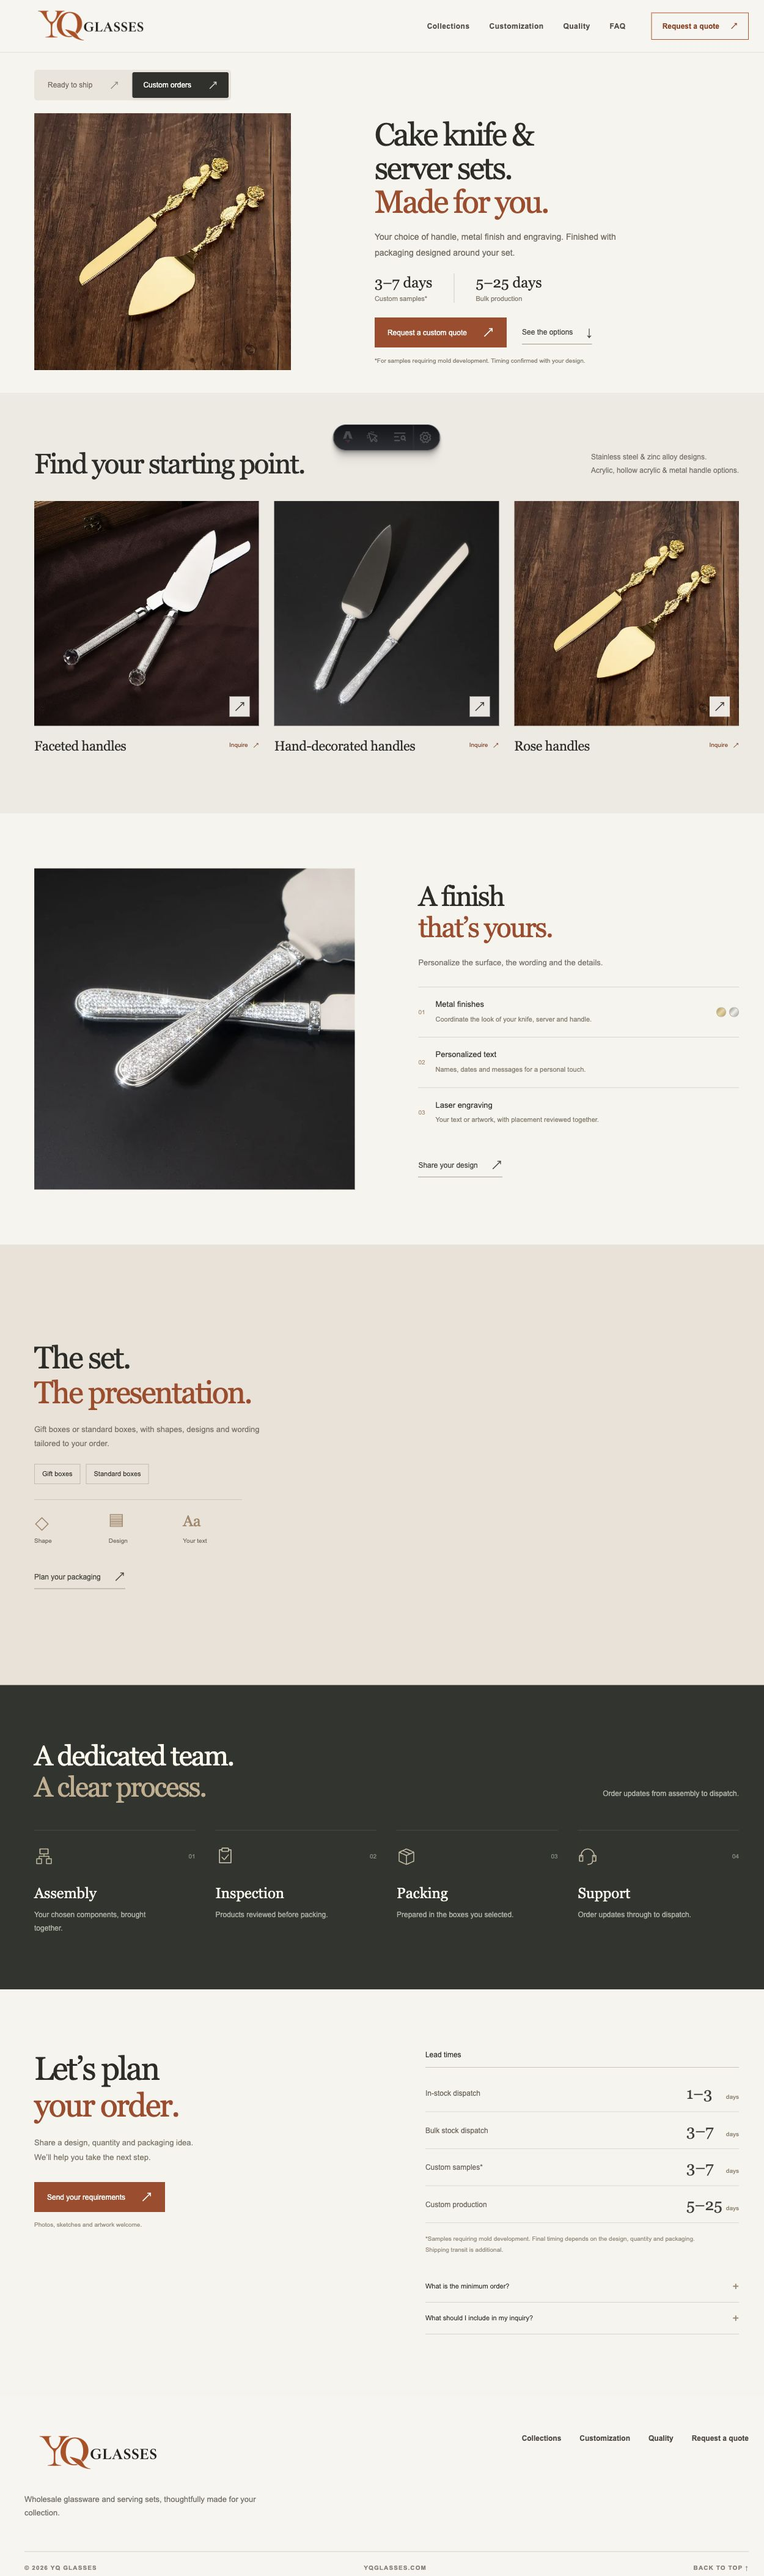
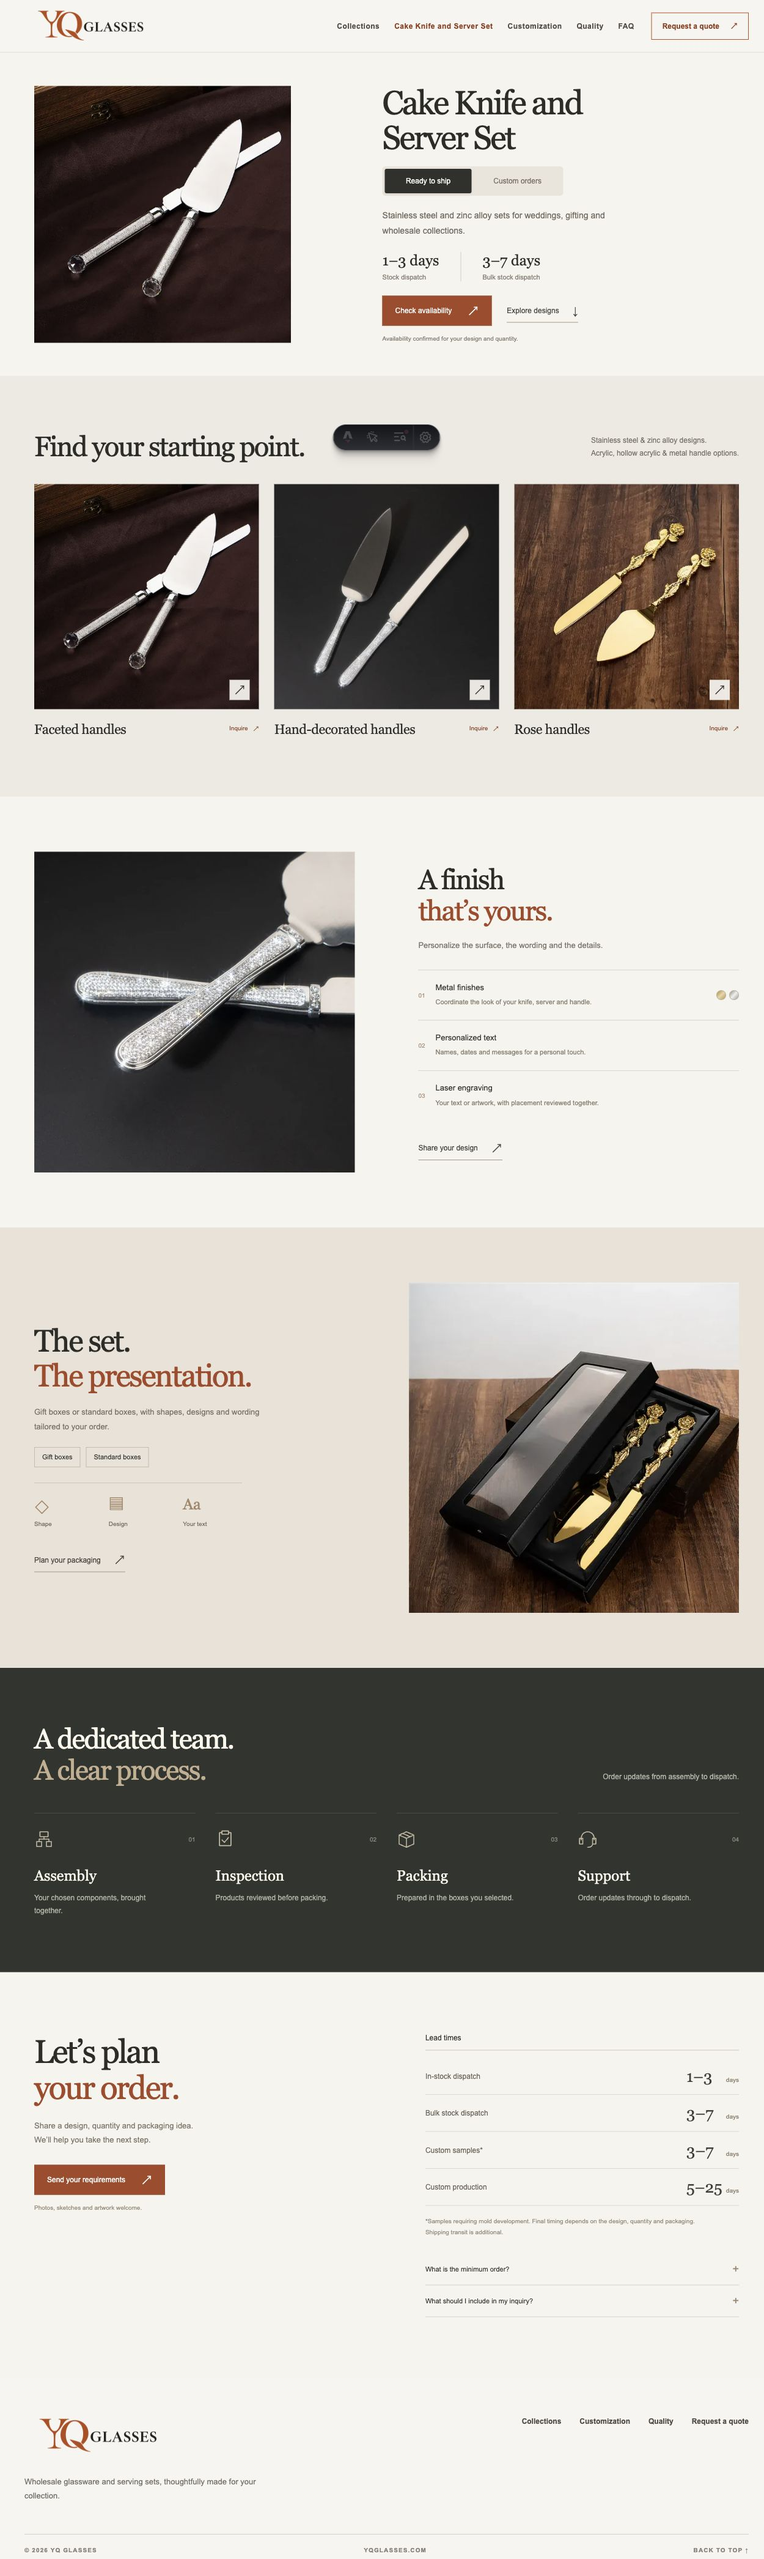
蛋糕刀铲页面

diff --git a/src/styles/cake-knife-sets.css b/src/styles/cake-knife-sets.css
@@ -3,15 +3,14 @@
 .cake-page h1, .cake-page h2, .cake-page h3 { font-family: Georgia, 'Times New Roman', serif; font-weight: 400; }
 .cake-page h1 em, .cake-page h2 em { font-style: normal; color: var(--ck-copper); }
 .ck-container { width: min(1280px, calc(100% - 112px)); margin-inline: auto; }
-.ck-hero { padding: 28px 0 36px; }
+.ck-hero { padding: 44px 0; }
 .ck-tabs { display: inline-flex; gap: 4px; padding: 4px; margin-bottom: 20px; background: #eae5dc; border-radius: 5px; }
-.ck-tabs button { display: flex; align-items: center; gap: 28px; min-height: 42px; padding: 0 18px; border: 0; border-radius: 3px; background: transparent; color: #766e63; font-size: 12px; transition: background .18s, color .18s; }
+.ck-tabs button { display: flex; align-items: center; justify-content: center; min-width: 142px; min-height: 40px; padding: 0 18px; border: 0; border-radius: 3px; background: transparent; color: #766e63; font-size: 12px; transition: background .18s, color .18s; }
 .ck-tabs button[aria-selected='true'] { background: #30312c; color: #fff; box-shadow: 0 2px 4px #00000010; }
-.ck-tabs button span { font-size: 15px; opacity: .8; }
-.ck-hero-panel { display: grid; grid-template-columns: .9fr 1.1fr; gap: 6%; align-items: center; }
+.ck-hero-layout { display: grid; grid-template-columns: .9fr 1.1fr; gap: 8%; align-items: center; }
 .ck-hero-copy { grid-column: 2; grid-row: 1; padding: 9px 0; }
-.ck-hero h1 { margin-bottom: 18px; font-size: clamp(42px, 4.1vw, 60px); line-height: 1.055; letter-spacing: -.05em; }
-.ck-hero-copy > p { max-width: 400px; margin-bottom: 22px; color: #726b60; font-size: 14px; line-height: 1.8; }
+.ck-hero h1 { margin-bottom: 18px; font-size: clamp(42px, 4.3vw, 62px); line-height: 1.055; letter-spacing: -.05em; }
+.ck-hero-panel > p { max-width: 400px; margin-bottom: 22px; color: #726b60; font-size: 14px; line-height: 1.8; }
 .ck-hero-timing { display: flex; gap: 35px; margin-bottom: 24px; }
 .ck-hero-timing > div { display: flex; flex-direction: column; gap: 7px; }
 .ck-hero-timing > div + div { border-left: 1px solid #d5cbbf; padding-left: 35px; }
@@ -94,9 +93,9 @@
 .ck-faq details > p { margin: 0 25px 18px 0; color: #82776a; font-size: 12px; line-height: 1.8; }
 @media (max-width: 1100px) {
   .ck-container { width: calc(100% - 72px); }
-  .ck-hero-panel { gap: 5%; }
+  .ck-hero-layout { gap: 5%; }
   .ck-hero h1 { font-size: 53px; }
-  .ck-hero-copy > p { font-size: 13px; }
+  .ck-hero-panel > p { font-size: 13px; }
   .ck-hero-actions { gap: 12px; }
   .ck-hero-timing { gap: 22px; }
   .ck-hero-timing > div + div { padding-left: 22px; }
@@ -107,7 +106,7 @@
 @media (max-width: 800px) {
   .ck-container { width: calc(100% - 44px); }
   .ck-hero { padding: 28px 0 36px; }
-  .ck-hero-panel { grid-template-columns: 1fr 1fr; gap: 5%; }
+  .ck-hero-layout { grid-template-columns: 1fr 1fr; gap: 5%; }
   .ck-hero h1 { font-size: 43px; }
   .ck-hero-timing { gap: 15px; margin-bottom: 23px; }
   .ck-hero-timing > div + div { padding-left: 15px; }
@@ -131,11 +130,11 @@
   .ck-container { width: calc(100% - 36px); }
   .ck-hero { padding: 23px 0 45px; }
   .ck-tabs { display: flex; width: 100%; margin-bottom: 27px; }
-  .ck-tabs button { justify-content: space-between; flex: 1; gap: 13px; padding: 0 13px; font-size: 12px; }
-  .ck-hero-panel { grid-template-columns: 1fr; gap: 22px; }
+  .ck-tabs button { justify-content: center; min-width: 0; flex: 1; gap: 13px; padding: 0 13px; font-size: 12px; }
+  .ck-hero-layout { grid-template-columns: 1fr; gap: 22px; }
   .ck-hero-copy { grid-column: 1; grid-row: 1; padding: 0; }
   .ck-hero h1 { font-size: clamp(44px,11.5vw,65px); margin-bottom: 20px; }
-  .ck-hero-copy > p { max-width: 360px; font-size: 13px; margin-bottom: 23px; }
+  .ck-hero-panel > p { max-width: 360px; font-size: 13px; margin-bottom: 23px; }
   .ck-hero-timing { gap: 28px; margin-bottom: 24px; }
   .ck-hero-timing > div + div { padding-left: 28px; }
   .ck-hero-actions { flex-direction: row; align-items: center; gap: 19px; }

diff --git a/src/styles/global.css b/src/styles/global.css
@@ -27,10 +27,12 @@ h1, h2, h3 { font-family: Georgia, 'Times New Roman', serif; }
 :focus-visible { outline: 2px solid var(--copper); outline-offset: 4px; }
 
 .site-header { position: relative; z-index: 30; height: 86px; background: #f8f5f1; border-bottom: 1px solid #e8dfd6; }
-.header-inner { display: flex; align-items: center; height: 100%; gap: 42px; }
+.header-inner { display: flex; align-items: center; height: 100%; gap: 28px; }
 .brand { display: inline-flex; flex: none; align-items: center; white-space: nowrap; }
 .brand-image { display: block; width: 216px; height: 72px; object-fit: contain; }
-.desktop-nav { display: flex; gap: 32px; margin-left: auto; }
+.desktop-nav { display: flex; gap: 24px; margin-left: auto; }
+.desktop-nav a { white-space: nowrap; }
+.desktop-nav a[aria-current='page'], .mobile-nav a[aria-current='page'] { color: var(--copper-dark); }
 .desktop-nav a { color: #554f49; font-size: 12px; font-weight: 700; letter-spacing: .04em; transition: color .2s; }
 .desktop-nav a:hover, .footer-links a:hover { color: var(--copper); }
 .header-cta { display: inline-flex; justify-content: space-between; gap: 18px; align-items: center; padding: 13px 17px; border: 1px solid var(--copper); color: var(--copper-dark); font-size: 12px; font-weight: 800; transition: background .2s, color .2s; }

diff --git a/design/cake-knife-sets/README.md b/design/cake-knife-sets/README.md
@@ -6,12 +6,14 @@ Six sections: stock/custom hero, collection, surface customization, packaging, t
 
 ## Verified locally
 
-- Stock/custom tabs change the headline, photograph, timing and relevant inquiry links.
+- The shared product headline is “Cake Knife and Server Set”. Stock/custom tabs change the photograph, short description, timing and relevant inquiry links.
 - Arrow keys switch the tabs and update the selected state.
 - A product inquiry prefills category, order type and design reference.
 - The minimum-order disclosure expands normally.
 - Desktop and 390 px mobile layouts have no horizontal overflow; product photographs load.
 - The page retains `noindex, nofollow`.
+- Desktop and mobile navigation link directly to the product page and mark it as current.
+- Title, description, keywords and social metadata use the cake knife and server set topic.
 
 No inquiry email was sent during UI checks. PHP is unavailable in the local runtime, so the optional email-context additions require the usual Hostinger PHP runtime.
 
